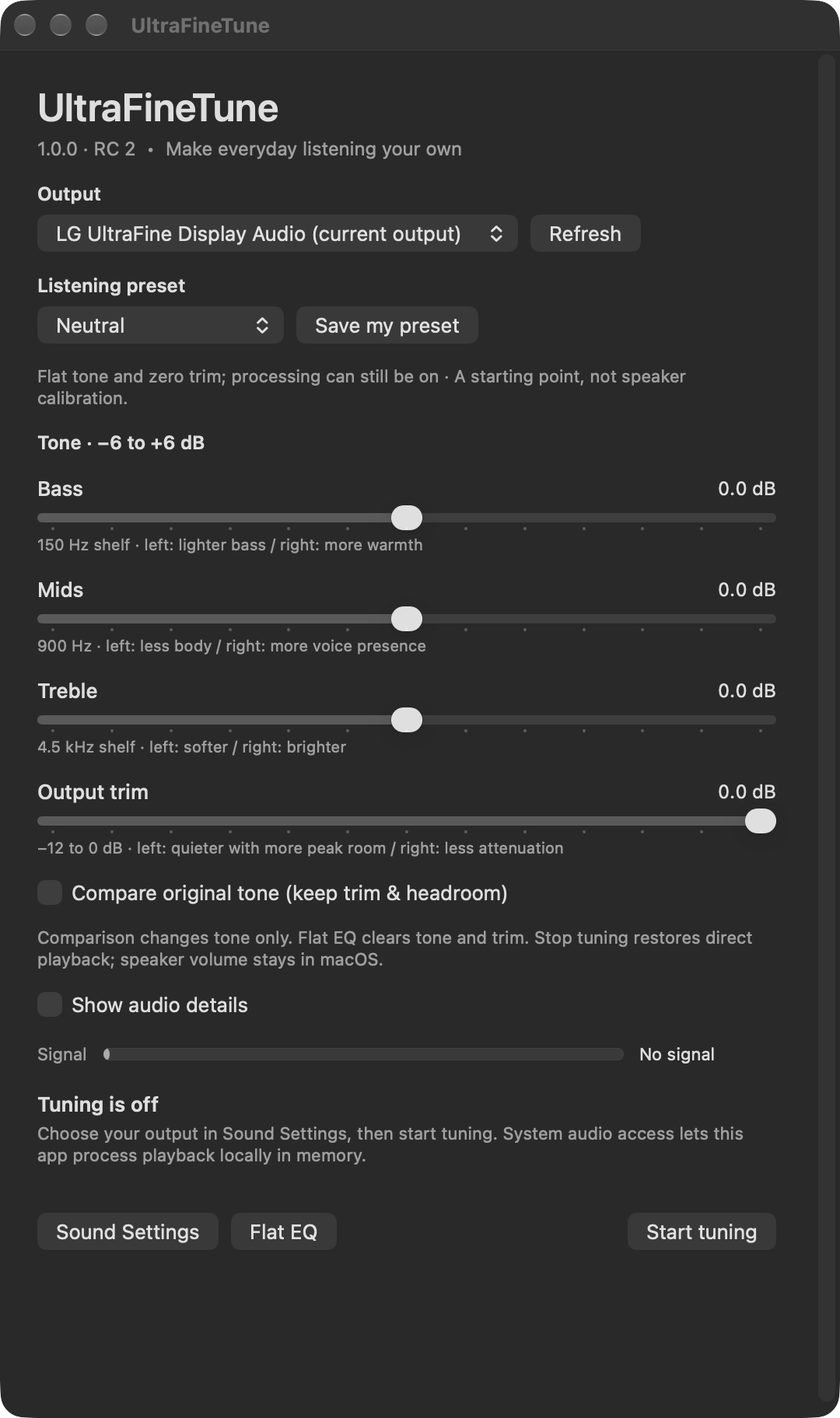
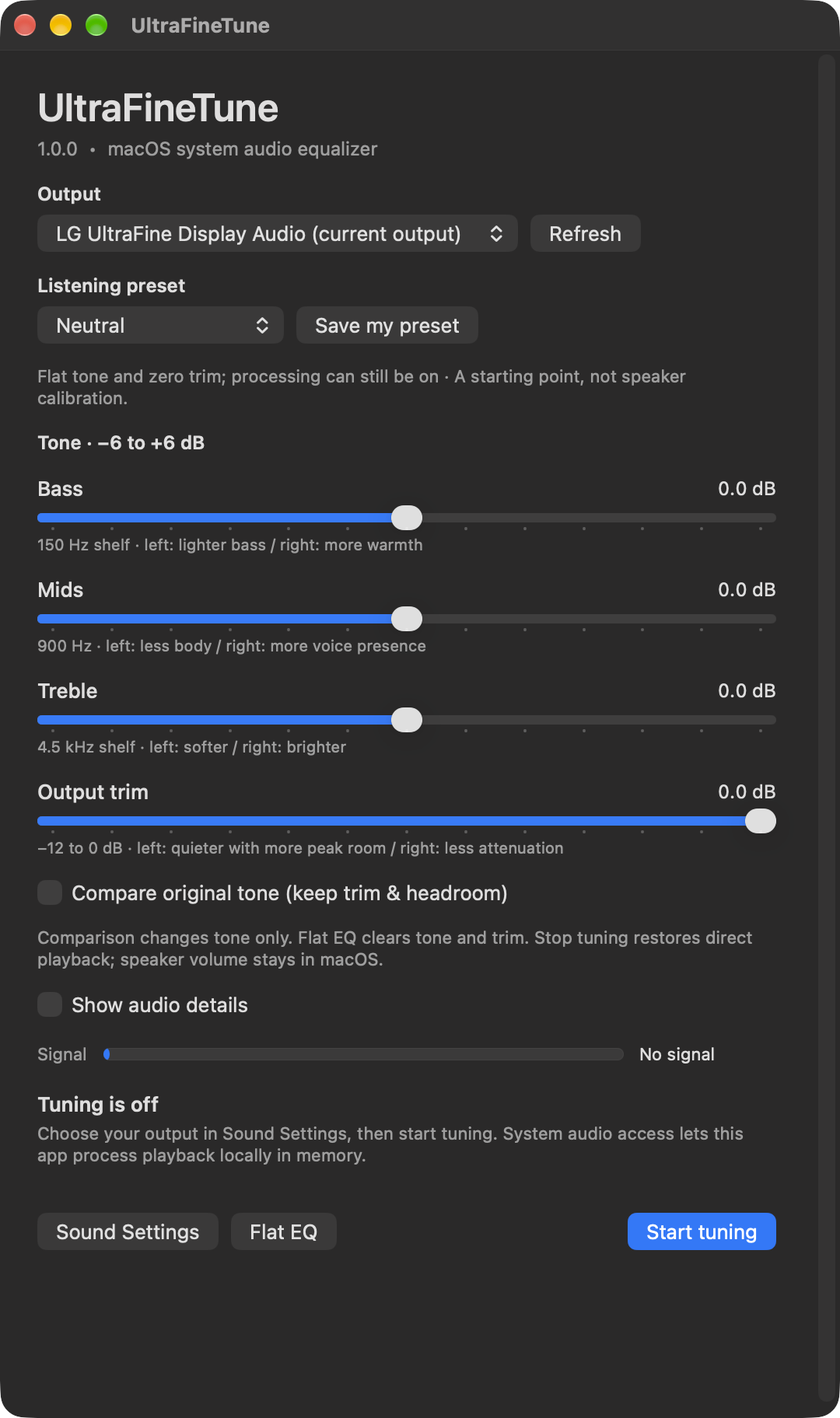
Release stable 1.0.0 build 3 with clear product and distribution copy

diff --git a/docs/index.html b/docs/index.html
@@ -3,9 +3,9 @@
 <head>
   <meta charset="utf-8">
   <meta name="viewport" content="width=device-width, initial-scale=1">
-  <meta name="description" content="UltraFineTune is a native macOS menu bar equalizer for local system playback. Build instructions, privacy, controls, and release candidate limits.">
+  <meta name="description" content="UltraFineTune is a native macOS menu bar equalizer for local system playback. Build instructions, privacy, controls, and compatibility limits.">
   <meta name="color-scheme" content="light">
-  <title>UltraFineTune — A little room to tune.</title>
+  <title>UltraFineTune — macOS system audio equalizer</title>
   <link rel="icon" type="image/svg+xml" href="assets/mark.svg">
   <link rel="stylesheet" href="assets/site.css">
 </head>
@@ -19,31 +19,31 @@
   <section id="top" class="hero wrap" aria-labelledby="hero-title">
     <div class="hero-copy">
       <p class="eyebrow"><span class="dot"></span> FREE &amp; OPEN SOURCE · NATIVE MACOS</p>
-      <h1 id="hero-title">A little room<br>to <em>tune.</em></h1>
-      <p class="lede">Make familiar sound feel more like you. A small menu bar equalizer for bass, mids, and treble, with LG UltraFine speakers as its first target.</p>
-      <div class="actions"><a class="button" href="https://github.com/fcw1987/UltraFineTune/releases/tag/v1.0.0-rc2">Download RC2 <span aria-hidden="true">↗</span></a><a class="text-link" href="https://github.com/fcw1987/UltraFineTune">Get the source <span aria-hidden="true">↗</span></a></div>
+      <h1 id="hero-title">System audio.<br><em>Your EQ.</em></h1>
+      <p class="lede">A macOS system audio equalizer with listening presets, bass, mids, treble, and output trim. Works with supported stereo outputs, including LG UltraFine speakers, selected as your Mac’s default.</p>
+      <div class="actions"><a class="button" href="https://github.com/fcw1987/UltraFineTune/releases/tag/v1.0.0">Download 1.0.0 <span aria-hidden="true">↗</span></a><a class="text-link" href="https://github.com/fcw1987/UltraFineTune">Get the source <span aria-hidden="true">↗</span></a></div>
       <p class="micro">macOS 14.2+ · MIT licensed · No paid tiers · Starts with tuning off</p>
     </div>
     <div class="tone-art" role="img" aria-label="Illustration of three frequency bands: bass, mids, and treble. Not an app screenshot or a measured response curve.">
-      <div class="art-top"><span class="art-dot"></span> YOUR SOUND, WITH A LITTLE SPACE <span>01 / 03</span></div>
+      <div class="art-top"><span class="art-dot"></span> BASS, MIDS &amp; TREBLE <span>01 / 03</span></div>
       <div class="wave"><i></i><i></i><i></i><i></i><i></i><i></i><i></i><i></i><i></i><i></i><i></i><i></i><i></i><i></i><i></i><i></i><i></i><i></i><i></i><i></i><i></i><i></i><i></i><i></i><i></i><i></i><i></i></div>
       <div class="art-bands"><div><span>01</span><strong>Bass</strong><small>Warmth &amp; weight</small></div><div><span>02</span><strong>Mids</strong><small>Voices &amp; presence</small></div><div><span>03</span><strong>Treble</strong><small>Detail &amp; brightness</small></div></div>
       <div class="art-bottom"><span>Small adjustments. Familiar audio.</span><span aria-hidden="true">↔</span></div>
       <p class="art-caption">Tone illustration · not a measured response or app screenshot</p>
     </div>
   </section>
-  <aside class="release wrap" aria-label="Release status"><span class="status-tag">PUBLIC RC</span><p><strong>Built. Tested in fixtures. Still awaiting live listening.</strong> Version 1.0.0 · build 2 · RC2. RC2 native menu and window checks, DSP and ring fixtures, and preset bounds/headroom checks passed. Audio permission, listening quality, physical latency, and recovery acceptance remain pending.</p><a href="#limits">Read the limits <span aria-hidden="true">↗</span></a></aside>
-  <section class="section wrap app-demo"><p class="eyebrow">THE NATIVE APP</p><h2>Familiar controls. Your own curve.</h2><img src="assets/app-window.png" alt="UltraFineTune native app with tuning off, tone controls and listening presets" width="540" loading="lazy"><p class="micro">Actual RC2 native window · tuning off. No audio capture was started for this image.</p></section>
+  <aside class="release wrap" aria-label="Release status"><span class="status-tag">1.0.0</span><p><strong>Stable 1.0.0 is available.</strong> Build 3 for Apple silicon and macOS 14.2+. Native build, off-state controls, and automated fixtures are verified. Ad hoc signed; not Developer ID signed or notarized. See the documented compatibility and validation limits.</p><a href="#limits">Read the limits <span aria-hidden="true">↗</span></a></aside>
+  <section class="section wrap app-demo"><p class="eyebrow">THE NATIVE APP</p><h2>Familiar controls. Your own curve.</h2><img src="assets/app-window.png" alt="UltraFineTune native app with tuning off, tone controls and listening presets" width="540" loading="lazy"><p class="micro">Actual 1.0.0 native window · tuning off. No audio capture was started for this image.</p></section>
   <section id="controls" class="section wrap" aria-labelledby="controls-title">
     <div class="section-head"><p class="eyebrow">A FEW GOOD CONTROLS</p><h2 id="controls-title">Find your balance.</h2><p>Begin with Neutral, play something you know, and make small changes by ear. No model-specific calibration is claimed.</p></div>
     <div class="cards"><article class="card"><span class="number">01 / LOW</span><h3>Bass</h3><p>Soften a boomy mix or add a little body with a low shelf near 150 Hz.</p><div class="range"><span>−6 dB</span><b>150 Hz</b><span>+6 dB</span></div></article><article class="card"><span class="number">02 / MIDDLE</span><h3>Mids</h3><p>Adjust the space around voices with a broad band near 900 Hz.</p><div class="range"><span>−6 dB</span><b>900 Hz</b><span>+6 dB</span></div></article><article class="card"><span class="number">03 / HIGH</span><h3>Treble</h3><p>Ease sharpness or bring out detail with a high shelf near 4.5 kHz.</p><div class="range"><span>−6 dB</span><b>4.5 kHz</b><span>+6 dB</span></div></article></div>
     <div class="control-notes"><p><strong>Room for peaks.</strong> Boosts reserve headroom automatically. Output trim adds up to 12 dB of reduction; sample clamping cannot guarantee distortion-free sound.</p><p><strong>Compare and return.</strong> Compare original tone keeps trim and reserved headroom. Flat EQ zeroes tone and trim while preserving processing state; Stop tuning restores ordinary playback. Save one custom preset for next time.</p></div>
   </section>
-  <section id="start" class="start-section" aria-labelledby="start-title"><div class="wrap start-grid"><div><p class="eyebrow">DOWNLOAD OR BUILD</p><h2 id="start-title">Start small.<br>Listen closely.</h2><p><a class="button" href="https://github.com/fcw1987/UltraFineTune/releases/download/v1.0.0-rc2/UltraFineTune-1.0.0-rc2-macos-arm64.zip">Download for Apple silicon ↗</a></p><p>Extract the ZIP and open UltraFineTune.app. RC2 includes a license and install guide. macOS 14.2+; arm64 only. Ad hoc signed, not Developer ID signed or notarized. Review <a href="https://support.apple.com/en-us/102445">Apple’s app-specific opening guidance</a> if blocked.</p><p>To build from source, use macOS 14.2 or later and Xcode or Apple Command Line Tools with a SDK supporting Core Audio process taps.</p><div class="code"><span>BUILD ONLY · FROM THE REPOSITORY</span><code>bash build.sh</code></div><p class="micro">Creates dist/UltraFineTune.app. Local ad hoc signing; no notarization or Apple distribution certificate.</p><a class="text-link" href="https://github.com/fcw1987/UltraFineTune/blob/main/docs/BUILD.md">Full build &amp; install guide <span aria-hidden="true">↗</span></a></div><ol class="steps"><li><span>1</span><div><h3>Choose the output.</h3><p>Select the LG UltraFine in macOS Sound Settings, then select the same output in the app. It must already be your Mac’s default.</p></div></li><li><span>2</span><div><h3>Start tuning manually.</h3><p>Open the built app and click Start tuning. Approve system audio capture if macOS asks; tuning begins off on every launch.</p></div></li><li><span>3</span><div><h3>Play something familiar.</h3><p>Use comfortable volume and begin with Neutral. Waiting for audio becomes Tuning your audio when processing is ready.</p></div></li></ol></div></section>
+  <section id="start" class="start-section" aria-labelledby="start-title"><div class="wrap start-grid"><div><p class="eyebrow">DOWNLOAD OR BUILD</p><h2 id="start-title">Start small.<br>Listen closely.</h2><p><a class="button" href="https://github.com/fcw1987/UltraFineTune/releases/download/v1.0.0/UltraFineTune-1.0.0-macos-arm64.zip">Download for Apple silicon ↗</a></p><p>Extract the ZIP and open UltraFineTune.app. 1.0.0 includes a license and install guide. macOS 14.2+; arm64 only. Ad hoc signed, not Developer ID signed or notarized. Review <a href="https://support.apple.com/en-us/102445">Apple’s app-specific opening guidance</a> if blocked.</p><p>To build from source, use macOS 14.2 or later and Xcode or Apple Command Line Tools with a SDK supporting Core Audio process taps.</p><div class="code"><span>BUILD ONLY · FROM THE REPOSITORY</span><code>bash build.sh</code></div><p class="micro">Creates dist/UltraFineTune.app. Local ad hoc signing; no notarization or Apple distribution certificate.</p><a class="text-link" href="https://github.com/fcw1987/UltraFineTune/blob/main/docs/BUILD.md">Full build &amp; install guide <span aria-hidden="true">↗</span></a></div><ol class="steps"><li><span>1</span><div><h3>Choose the output.</h3><p>Select your supported stereo output in macOS Sound Settings, then select the same output in the app. It must already be your Mac’s default.</p></div></li><li><span>2</span><div><h3>Start tuning manually.</h3><p>Open the built app and click Start tuning. Approve system audio capture if macOS asks; tuning begins off on every launch.</p></div></li><li><span>3</span><div><h3>Play something familiar.</h3><p>Use comfortable volume and begin with Neutral. Waiting for audio becomes Tuning your audio when processing is ready.</p></div></li></ol></div></section>
   <section id="details" class="section wrap" aria-labelledby="details-title"><div class="section-head"><p class="eyebrow">CLEAR BY DESIGN</p><h2 id="details-title">Local audio. Clear boundaries.</h2></div><div class="details-grid"><article><h3>Your audio stays here.</h3><p>The reviewed implementation processes system playback in memory. No recordings, network transmission, analytics, microphone capture, or screen capture. Tone settings, output preference, and one preset are saved locally.</p><a class="text-link" href="privacy.html">Privacy details <span aria-hidden="true">↗</span></a></article><article><h3>Native, with a small footprint.</h3><p>AppKit controls, a Core Audio process tap, a separate output Audio Unit, and in-tree stereo DSP. Apple frameworks power the runtime; no third-party runtime libraries are needed.</p><a class="text-link" href="https://github.com/fcw1987/UltraFineTune/blob/main/docs/SECURITY.md">Security &amp; distribution <span aria-hidden="true">↗</span></a></article></div></section>
-  <section id="limits" class="limits wrap" aria-labelledby="limits-title"><div><p class="eyebrow">RELEASE CANDIDATE, IN PLAIN SIGHT</p><h2 id="limits-title">Know what is verified.</h2><p>Recorded RC evidence includes an arm64 native build, off-state checks, and automated DSP, ring, callback, and cleanup fixtures. Those results do not establish live sound quality or Apple’s physical audio lifecycle.</p></div><div><ul><li>Live permission, sustained playback, latency, installation, and recovery acceptance remain pending.</li><li>The downloadable prerelease is arm64, ad hoc signed and not notarized.</li><li>Stereo default output only; capture and playback need matching nominal sample rates.</li><li>Protected content and direct output routing may not be captured.</li><li>Output changes and sleep stop tuning. Confirm the route and restart manually.</li></ul><a class="text-link" href="https://github.com/fcw1987/UltraFineTune/blob/main/docs/KNOWN_LIMITS.md">Full limits &amp; evidence <span aria-hidden="true">↗</span></a></div></section>
+  <section id="limits" class="limits wrap" aria-labelledby="limits-title"><div><p class="eyebrow">COMPATIBILITY &amp; VALIDATION</p><h2 id="limits-title">Know what is verified.</h2><p>Recorded automated evidence includes an arm64 native build, off-state checks, and automated DSP, ring, callback, and cleanup fixtures. Those results do not establish live sound quality or Apple’s physical audio lifecycle.</p></div><div><ul><li>Live permission, sustained playback, latency, installation, and recovery acceptance remain pending.</li><li>The downloadable release is arm64, ad hoc signed and not notarized.</li><li>Stereo default output only; capture and playback need matching nominal sample rates.</li><li>Protected content and direct output routing may not be captured.</li><li>Output changes and sleep stop tuning. Confirm the route and restart manually.</li></ul><a class="text-link" href="https://github.com/fcw1987/UltraFineTune/blob/main/docs/KNOWN_LIMITS.md">Full limits &amp; evidence <span aria-hidden="true">↗</span></a></div></section>
   <section class="section wrap faq" aria-labelledby="faq-title"><div class="section-head"><p class="eyebrow">BEFORE YOU LISTEN</p><h2 id="faq-title">A few practical answers.</h2></div><details><summary>Does it calibrate a specific LG model?</summary><p>No measured acoustic correction is supplied. Neutral, Everyday, Podcast / Speech, Gaming, Music, Clearer voices, Less boom, and Softer treble are starting points for adjustment by ear. This is an independent project without LG endorsement.</p></details><details><summary>What if tuning is silent or waiting?</summary><p>Stop tuning, confirm ordinary playback and your default output, and check system audio capture permission. After changing permission, quit and reopen the app. Some protected or directly routed audio may not be captured.</p></details><details><summary>How do I return to ordinary playback?</summary><p>Click Stop tuning or Quit. Compare original tone only removes the tone adjustment; it keeps trim and headroom. Flat EQ zeroes gains and trim without changing whether processing is running. Live quit, force-quit, disconnect, and sleep recovery still require hardware acceptance.</p></details><details><summary>Can I view this website offline?</summary><p>Yes. Open index.html in the docs folder. This page uses local CSS and SVG, system fonts, and native HTML controls. It needs no JavaScript, remote fonts, or CDN. Hosting providers may keep their own access logs.</p></details></section>
 </main>
-<footer class="footer wrap"><div><a class="brand" href="#top"><img src="assets/mark.svg" width="30" height="30" alt=""><span>UltraFine<b>Tune</b></span></a><p>A little room to tune. A deliberate place to start.</p></div><div class="footer-links"><a href="https://github.com/fcw1987/UltraFineTune/blob/main/docs/BUILD.md">Build</a><a href="https://github.com/fcw1987/UltraFineTune/blob/main/docs/USAGE.md">Use</a><a href="privacy.html">Privacy</a><a href="support.html">Support</a><a href="https://github.com/fcw1987/UltraFineTune">GitHub</a><a href="https://github.com/fcw1987/UltraFineTune/blob/main/docs/KNOWN_LIMITS.md">Limits</a></div><p class="legal">Independent project · Free and open source · MIT license.<br>Local release candidate 2 · macOS 14.2+</p></footer>
+<footer class="footer wrap"><div><a class="brand" href="#top"><img src="assets/mark.svg" width="30" height="30" alt=""><span>UltraFine<b>Tune</b></span></a><p>macOS system audio equalizer.</p></div><div class="footer-links"><a href="https://github.com/fcw1987/UltraFineTune/blob/main/docs/BUILD.md">Build</a><a href="https://github.com/fcw1987/UltraFineTune/blob/main/docs/USAGE.md">Use</a><a href="privacy.html">Privacy</a><a href="support.html">Support</a><a href="https://github.com/fcw1987/UltraFineTune">GitHub</a><a href="https://github.com/fcw1987/UltraFineTune/blob/main/docs/KNOWN_LIMITS.md">Limits</a></div><p class="legal">Independent project · Free and open source · MIT license.<br>Version 1.0.0 · build 3 · macOS 14.2+</p></footer>
 </body>
 </html>

diff --git a/docs/support.html b/docs/support.html
@@ -1,1 +1,1 @@
-<!doctype html><html lang="en"><head><meta charset="utf-8"><meta name="viewport" content="width=device-width,initial-scale=1"><title>Support · UltraFineTune</title><link rel="icon" href="assets/mark.svg"><link rel="stylesheet" href="assets/site.css"></head><body><a class="skip" href="#main">Skip to content</a><header class="header wrap"><a class="brand" href="index.html"><img src="assets/mark.svg" width="36" height="36" alt=""><span>UltraFine<b>Tune</b></span></a><nav aria-label="Main navigation"><a href="index.html">Home</a><a href="support.html">Support</a><a href="privacy.html">Privacy</a></nav></header><main id="main" class="wrap page-copy"><p class="eyebrow">FREE AND OPEN SOURCE</p><h1>Support</h1><p>Build something that sounds right to you. Start with the <a href="https://github.com/fcw1987/UltraFineTune/blob/main/docs/BUILD.md">build guide</a> and <a href="https://github.com/fcw1987/UltraFineTune/blob/main/docs/USAGE.md">usage guide</a>.</p><h2>Download and open</h2><p>Get the <a href="https://github.com/fcw1987/UltraFineTune/releases/tag/v1.0.0-rc2">RC2 app and checksum on GitHub Releases</a>. Extract the ZIP and read INSTALL.md. Requires Apple silicon and macOS 14.2+. The app is not Developer ID signed or notarized; if blocked, review <a href="https://support.apple.com/en-us/102445">Apple’s app-specific opening guidance</a>, or build the reviewed source.</p><h2>Silent or waiting for audio?</h2><p>Stop tuning and confirm ordinary playback works. Select the same stereo physical output in macOS Sound Settings and the app. Confirm system audio capture permission in Privacy &amp; Security, then quit and reopen after permission changes. Some protected or directly routed audio may not be captured.</p><h2>Report a bug or request a feature</h2><p><a href="https://github.com/fcw1987/UltraFineTune/issues">Open a GitHub issue</a> with macOS and app version, output model and connection, steps to reproduce, expected result, and observed status. Review diagnostics for device identifiers and local paths before sharing. Do not upload recordings or credentials.</p><h2>Security reports</h2><p>Use <a href="https://github.com/fcw1987/UltraFineTune/security/advisories/new">private vulnerability reporting</a> for sensitive reports.</p><h2>Release candidate limits</h2><p>Version 1.0.0 build 2 is a downloadable arm64 prerelease. The app is ad hoc signed, not Developer ID signed or notarized. Live audio quality, latency, permission and recovery acceptance remain pending. <a href="https://github.com/fcw1987/UltraFineTune/blob/main/docs/KNOWN_LIMITS.md">Read the full limits</a>.</p></main><footer class="footer wrap"><p>UltraFineTune · MIT license · Independent of LG</p><a href="https://github.com/fcw1987/UltraFineTune">Source on GitHub</a></footer></body></html>
+<!doctype html><html lang="en"><head><meta charset="utf-8"><meta name="viewport" content="width=device-width,initial-scale=1"><title>Support · UltraFineTune</title><link rel="icon" href="assets/mark.svg"><link rel="stylesheet" href="assets/site.css"></head><body><a class="skip" href="#main">Skip to content</a><header class="header wrap"><a class="brand" href="index.html"><img src="assets/mark.svg" width="36" height="36" alt=""><span>UltraFine<b>Tune</b></span></a><nav aria-label="Main navigation"><a href="index.html">Home</a><a href="support.html">Support</a><a href="privacy.html">Privacy</a></nav></header><main id="main" class="wrap page-copy"><p class="eyebrow">FREE AND OPEN SOURCE</p><h1>Support</h1><p>Adjust system playback using presets and tone controls. Start with the <a href="https://github.com/fcw1987/UltraFineTune/blob/main/docs/BUILD.md">build guide</a> and <a href="https://github.com/fcw1987/UltraFineTune/blob/main/docs/USAGE.md">usage guide</a>.</p><h2>Download and open</h2><p>Get the <a href="https://github.com/fcw1987/UltraFineTune/releases/tag/v1.0.0">1.0.0 app and checksum on GitHub Releases</a>. Extract the ZIP and read INSTALL.md. Requires Apple silicon and macOS 14.2+. The app is not Developer ID signed or notarized; if blocked, review <a href="https://support.apple.com/en-us/102445">Apple’s app-specific opening guidance</a>, or build the reviewed source.</p><h2>Silent or waiting for audio?</h2><p>Stop tuning and confirm ordinary playback works. Select the same stereo physical output in macOS Sound Settings and the app. Confirm system audio capture permission in Privacy &amp; Security, then quit and reopen after permission changes. Some protected or directly routed audio may not be captured.</p><h2>Report a bug or request a feature</h2><p><a href="https://github.com/fcw1987/UltraFineTune/issues">Open a GitHub issue</a> with macOS and app version, output model and connection, steps to reproduce, expected result, and observed status. Review diagnostics for device identifiers and local paths before sharing. Do not upload recordings or credentials.</p><h2>Security reports</h2><p>Use <a href="https://github.com/fcw1987/UltraFineTune/security/advisories/new">private vulnerability reporting</a> for sensitive reports.</p><h2>Compatibility and validation</h2><p>Stable version 1.0.0 build 3 is available for Apple silicon (arm64). The app is ad hoc signed, not Developer ID signed or notarized. Live audio quality, latency, permission and recovery acceptance remain pending. <a href="https://github.com/fcw1987/UltraFineTune/blob/main/docs/KNOWN_LIMITS.md">Read the full limits</a>.</p></main><footer class="footer wrap"><p>UltraFineTune · MIT license · Independent of LG</p><a href="https://github.com/fcw1987/UltraFineTune">Source on GitHub</a></footer></body></html>

diff --git a/Sources/main.m b/Sources/main.m
@@ -152,7 +152,7 @@ static float UFSafeControl(id value, float minimum, float maximum) {
         [root.bottomAnchor constraintEqualToAnchor:content.bottomAnchor constant:-24]
     ]];
     NSTextField *title = UFLabel(@"UltraFineTune", 25, NSFontWeightSemibold);
-    NSTextField *subtitle = UFLabel(@"1.0.0 · RC 2  •  Make everyday listening your own", 12, NSFontWeightRegular);
+    NSTextField *subtitle = UFLabel(@"1.0.0  •  macOS system audio equalizer", 12, NSFontWeightRegular);
     subtitle.textColor = NSColor.secondaryLabelColor;
     [root addArrangedSubview:UFStack(@[title, subtitle], NSUserInterfaceLayoutOrientationVertical, 5)];
 
@@ -600,7 +600,7 @@ int main(int argc, const char *argv[]) {
             BOOL testing = strcmp(argv[1], "--self-test") == 0;
             NSDictionary *result = testing ? [UFAudioEngine offStateSelfTest] : [UFAudioEngine hardwareSnapshot];
             NSMutableDictionary *report = [result mutableCopy];
-            report[@"version"] = @"1.0.0"; report[@"build"] = @"2"; report[@"releaseChannel"] = @"RC 2";
+            report[@"version"] = @"1.0.0"; report[@"build"] = @"3"; report[@"releaseChannel"] = @"stable";
             NSData *json = [NSJSONSerialization dataWithJSONObject:report options:NSJSONWritingPrettyPrinted | NSJSONWritingSortedKeys error:nil];
             printf("%s\n", [[NSString alloc] initWithData:json encoding:NSUTF8StringEncoding].UTF8String);
             return testing && ![result[@"passed"] boolValue] ? 1 : 0;

diff --git a/README.md b/README.md
@@ -1,8 +1,8 @@
 # UltraFineTune
 
-**Your sound. A little more you.** A free, open-source native macOS menu bar equalizer for system playback, built with LG UltraFine speakers as its first target.
+A free, open-source macOS system audio equalizer with listening presets and bass, mids, treble, and output trim controls. Use it with a supported stereo physical output, including LG UltraFine speakers, selected as your Mac’s default output.
 
-[Download RC2](https://github.com/fcw1987/UltraFineTune/releases/tag/v1.0.0-rc2) · [Website](https://fcw1987.github.io/UltraFineTune/) · [Get started](docs/BUILD.md) · [Support](https://github.com/fcw1987/UltraFineTune/issues) · [Privacy](docs/PRIVACY.md) · [MIT license](LICENSE)
+[Download 1.0.0](https://github.com/fcw1987/UltraFineTune/releases/tag/v1.0.0) · [Website](https://fcw1987.github.io/UltraFineTune/) · [Get started](docs/BUILD.md) · [Support](https://github.com/fcw1987/UltraFineTune/issues) · [Privacy](docs/PRIVACY.md) · [MIT license](LICENSE)
 
 ![UltraFineTune native controls, with tuning off](docs/assets/app-window.png)
 
@@ -10,9 +10,9 @@ Adjust bass, mids, treble, and output trim without a driver or third-party runti
 
 ## Download and try it
 
-Download the [RC2 app ZIP for Apple silicon (arm64)](https://github.com/fcw1987/UltraFineTune/releases/download/v1.0.0-rc2/UltraFineTune-1.0.0-rc2-macos-arm64.zip) from [GitHub Releases](https://github.com/fcw1987/UltraFineTune/releases/tag/v1.0.0-rc2). Requires **macOS 14.2+**. The ZIP includes the app, MIT license, and installation guide; a SHA-256 checksum is available with the release.
+Download the [1.0.0 app ZIP for Apple silicon (arm64)](https://github.com/fcw1987/UltraFineTune/releases/download/v1.0.0/UltraFineTune-1.0.0-macos-arm64.zip) from [GitHub Releases](https://github.com/fcw1987/UltraFineTune/releases/tag/v1.0.0). Requires **macOS 14.2+**. The ZIP includes the app, MIT license, and installation guide; a SHA-256 checksum is available with the release.
 
-Extract the ZIP, quit any older copy, and open `UltraFineTune.app`. You can move it to your user’s Applications folder. This prerelease is **ad hoc signed, not Developer ID signed or notarized**. If macOS blocks it, review [Apple’s app-specific opening guidance](https://support.apple.com/en-us/102445) and proceed only if you trust this build. Building from source is also available.
+Extract the ZIP, quit any older copy, and open `UltraFineTune.app`. You can move it to your user’s Applications folder. This release is **ad hoc signed, not Developer ID signed or notarized**. If macOS blocks it, review [Apple’s app-specific opening guidance](https://support.apple.com/en-us/102445) and proceed only if you trust this build. Building from source is also available.
 
 ## Build from source
 
@@ -49,9 +49,9 @@ Presets are subjective starting points, not measured calibration, hardware corre
 
 ## Status and boundaries
 
-Version **1.0.0, build 2 (RC2)**. Native arm64 compilation, strict ad hoc signature verification, DSP/ring/preset fixtures, and isolated off-state menu/window checks have passed locally. GitHub Actions builds and runs focused fixtures on macOS. These checks do not establish live listening quality, device latency, permission acceptance, sustained playback, or recovery; those remain in the [Mac acceptance checklist](MAC_TEST_CHECKLIST.md).
+Stable version **1.0.0, build 3**. Native arm64 compilation, strict ad hoc signature verification, DSP/ring/preset fixtures, and isolated off-state menu/window checks have passed locally. GitHub Actions builds and runs focused fixtures on macOS. These checks do not establish live listening quality, device latency, permission acceptance, sustained playback, or recovery; those remain in the [Mac acceptance checklist](MAC_TEST_CHECKLIST.md).
 
-Builds are locally ad hoc signed, **not Developer ID signed or notarized**. The downloadable RC2 prerelease is arm64; no Intel or universal binary is supplied. Source builds target the current Mac architecture; local native evidence is arm64. Stereo capture and output require matching nominal sample rates. Protected content or directly routed audio may not be captured. See [known limits](docs/KNOWN_LIMITS.md).
+Builds are locally ad hoc signed, **not Developer ID signed or notarized**. The downloadable 1.0.0 release is arm64; no Intel or universal binary is supplied. Source builds target the current Mac architecture; local native evidence is arm64. Stereo capture and output require matching nominal sample rates. Protected content or directly routed audio may not be captured. See [known limits](docs/KNOWN_LIMITS.md).
 
 ## Local by design
 

diff --git a/VALIDATION.md b/VALIDATION.md
@@ -1,9 +1,11 @@
 # Validation boundaries
 
-RC2 local validation on macOS arm64: native build with warnings as errors, strict ad hoc signature verification, 16 EQ groups, seven ring groups, and eight preset cases. Off-state self-test creates no audio resources. Isolated UI smoke verifies menu wiring, reopen after closing the window, preset application, comparison, Flat EQ, resizing, and visible footer/status, without capture or saved preference writes.
+Historical RC2 local validation on macOS arm64: native build with warnings as errors, strict ad hoc signature verification, 16 EQ groups, seven ring groups, and eight preset cases. Off-state self-test creates no audio resources. Isolated UI smoke verifies menu wiring, reopen after closing the window, preset application, comparison, Flat EQ, resizing, and visible footer/status, without capture or saved preference writes.
 
-The publication pass repeats the focused portable fixtures, actual-source callback/cleanup fixtures, native build, and off-state checks after branding. A screenshot of only the app window documents its controls. GitHub Actions repeats build and focused tests for pushed revisions. CI output is available under the repository’s Actions tab.
+The earlier RC2 publication pass repeated the focused portable fixtures, actual-source callback/cleanup fixtures, native build, and off-state checks after branding. A screenshot of only the app window documents its controls. GitHub Actions repeats build and focused tests for pushed revisions. CI output is available under the repository’s Actions tab.
 
 Earlier local RC fixtures also exercised sanitizers, nine callback groups, 256 cleanup failure combinations, and ten partial-start checkpoints. Developer machine logs and identifiers are intentionally excluded from public source history. Historical results are not claims about every future revision.
 
 Live permission, listening quality, sustained playback, physical latency, installation/update, sleep/disconnect, quit, and force-quit recovery remain pending in the [Mac checklist](MAC_TEST_CHECKLIST.md). No benchmark claim about whole-app CPU or device latency is made.
+
+Stable 1.0.0 build 3 repeats the native build, strict signature verification, off-state self-test, isolated UI smoke, and publication checks. The metadata and product copy change does not alter DSP or engine code. GitHub Actions runs the repository’s native build and focused fixtures before merge.

diff --git a/docs/SECURITY.md b/docs/SECURITY.md
@@ -1,6 +1,6 @@
 # Security and distribution
 
-This is a local release candidate with a local ad hoc signature. It has not been notarized or signed using an Apple distribution certificate. Build from source you have reviewed and use the build script’s signature verification as a bundle integrity check; an ad hoc signature does not identify a trusted publisher.
+Version 1.0.0 is a stable release with a local ad hoc signature. It has not been notarized or signed using an Apple distribution certificate. Build from source you have reviewed and use the build script’s signature verification as a bundle integrity check; an ad hoc signature does not identify a trusted publisher.
 
 The native runtime depends on Apple AppKit, Foundation, Core Audio, AudioToolbox, and AudioUnit frameworks plus the in-tree DSP and ring buffer. It has no package-manager runtime dependencies, network update mechanism, or automatic startup. Tuning starts manually. The app does not change hardware volume or the default output device.
 
@@ -12,6 +12,6 @@ Use GitHub [private vulnerability reporting](https://github.com/fcw1987/UltraFin
 
 For a non-sensitive bug, provide the source revision, macOS/toolchain version, output model and connection, sample rate, exact reproduction steps, observed status, and expected result. Review diagnostic files for local paths and identifiers before sharing. No personal contact details are included in this project.
 
-## Release checklist
+## Distribution status
 
-The RC2 prerelease is available with an ad hoc signature and pending live acceptance disclosed. Before declaring a stable release, complete live Mac acceptance and decide on Developer ID signing and notarization. Update validation claims to match the exact released source. Public source availability does not establish live playback acceptance.
+Stable 1.0.0 (build 3) is available for Apple silicon and macOS 14.2+. Developer ID signing and notarization are separate future distribution work; the current release has neither. Automated validation and off-state controls are checked against the released source. Live permission, listening, latency, sustained playback and hardware recovery have the boundaries documented in [known limits](KNOWN_LIMITS.md); stable designation does not imply those measurements have been performed.

diff --git a/docs/KNOWN_LIMITS.md b/docs/KNOWN_LIMITS.md
@@ -1,7 +1,7 @@
 # Known limits and validation
 
 - macOS 14.2+ with a Core Audio process-tap SDK. Native local evidence is arm64; Intel live playback is not validated.
-- Initial target is a stereo LG UltraFine already selected as the Mac’s default physical output. Unsupported layouts are rejected. Capture and playback need matching nominal sample rates.
+- The selected output must be a supported stereo physical device already selected as the Mac’s default, including eligible LG UltraFine speakers. LG acoustic calibration and model-wide hardware acceptance are not supplied. Unsupported layouts are rejected. Capture and playback need matching nominal sample rates.
 - Presets are subjective starting points, not measured acoustic calibration or LG endorsement.
 - Buffering adds latency. The displayed target is not measured end-to-end latency.
 - Protected content and direct output routing may not be captured.
@@ -9,7 +9,7 @@
 - Sample clamping bounds output but cannot guarantee distortion-free processing for every input.
 - Route changes and sleep stop tuning; confirm the route and restart manually.
 - One custom preset is stored. No preset library, sync, automatic updater, or automatic tuning startup.
-- Source builds are ad hoc signed, not Developer ID signed or notarized. The RC2 prerelease ZIP supports Apple silicon (arm64) only; no Intel or universal binary is supplied.
+- Source builds are ad hoc signed, not Developer ID signed or notarized. The 1.0.0 release ZIP supports Apple silicon (arm64) only; no Intel or universal binary is supplied.
 
 ## Verified and pending
 

diff --git a/docs/ROADMAP.md b/docs/ROADMAP.md
@@ -7,6 +7,6 @@ These are ideas for later review, not shipped features or commitments.
 - An optional frequency response preview generated from the actual DSP coefficients, clearly distinguished from speaker calibration.
 - User-controlled per-output preferences after live disconnect, sleep and permission recovery tests establish safe behavior.
 - Measured speaker correction only with documented hardware measurements and model matching.
-- Distribution signing and notarization, CI on supported Apple hardware, and live hardware acceptance before prebuilt releases.
+- Distribution signing and notarization, CI on supported Apple hardware, and broader live hardware acceptance.
 
-Current priority is live listening acceptance of RC2 at comfortable volume, including normal quit, output disconnect, wake and permission recovery. No extra drivers, automatic route/volume changes, or network service are planned for this pass.
+Future validation includes live listening acceptance of 1.0.0 at comfortable volume, including normal quit, output disconnect, wake and permission recovery. No extra drivers, automatic route/volume changes, or network service are planned for this pass.

diff --git a/docs/BUILD.md b/docs/BUILD.md
@@ -1,8 +1,8 @@
 # Build and installation
 
-## Download the prerelease
+## Download 1.0.0
 
-The [RC2 release](https://github.com/fcw1987/UltraFineTune/releases/tag/v1.0.0-rc2) provides a runnable arm64 app ZIP and SHA-256 checksum. Extract the ZIP, read `INSTALL.md`, quit an older copy, and open the app. Moving it to your user’s Applications folder is optional. The download needs macOS 14.2+ on Apple silicon; no developer tools are required to run it.
+The [1.0.0 release](https://github.com/fcw1987/UltraFineTune/releases/tag/v1.0.0) provides a runnable arm64 app ZIP and SHA-256 checksum. Extract the ZIP, read `INSTALL.md`, quit an older copy, and open the app. Moving it to your user’s Applications folder is optional. The download needs macOS 14.2+ on Apple silicon; no developer tools are required to run it.
 
 The app is locally ad hoc signed, not Developer ID signed or notarized. If macOS blocks a downloaded copy, review [Apple’s app-specific instructions](https://support.apple.com/en-us/102445) and continue only if you trust that exact app. Source builds are an alternative. No global security disablement is needed.
 

diff --git a/CHANGELOG.md b/CHANGELOG.md
@@ -1,6 +1,14 @@
 # Release notes
 
-## 1.0.0 RC2 — build 2
+## 1.0.0 — build 3
+
+- Stable release with the existing system audio EQ, eight presets, saved preset, comparison, and output trim.
+- Stable app metadata and clear product, compatibility, installation, privacy, and support information.
+- Apple silicon (arm64), macOS 14.2+. Ad hoc signed; not Developer ID signed or notarized.
+- New versioned app ZIP and checksum; existing RC2 artifacts and tag are preserved.
+- Bundle identifier, preference keys, DSP, and controls remain unchanged.
+
+## Historical 1.0.0 RC2 — build 2 (superseded by 1.0.0)
 
 - Native menu bar controls, eight listening presets, one saved preset, tone comparison, and Flat EQ.
 - Local stereo processing through Core Audio process taps and a separate output Audio Unit.

diff --git a/MAC_TEST_CHECKLIST.md b/MAC_TEST_CHECKLIST.md
@@ -1,6 +1,6 @@
 # UltraFineTune, Mac acceptance checklist
 
-This checklist tracks acceptance of 1.0.0 build 1, Release candidate 1. Native build and off-state checks passed; live hardware acceptance is pending. Keep playback volume comfortable while checking route changes and recovery.
+This historical checklist records 1.0.0 build 1, Release candidate 1, and remains a guide for future live hardware validation. Stable 1.0.0 build 3 is released; the historical results below are not new measurements. Native build and off-state checks passed; live hardware acceptance is pending. Keep playback volume comfortable while checking route changes and recovery.
 
 ## Completed RC evidence
 
